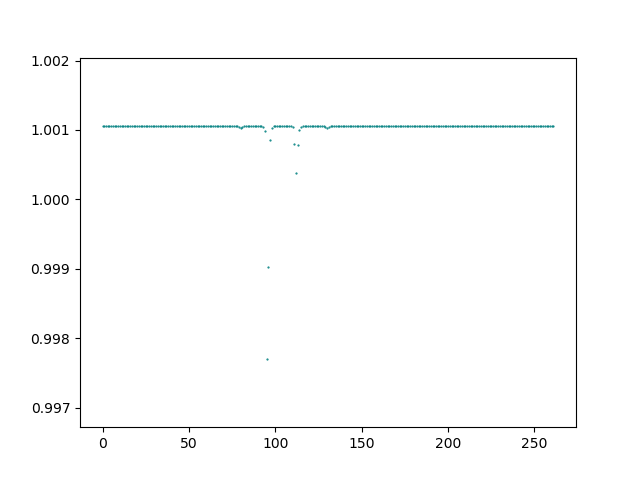
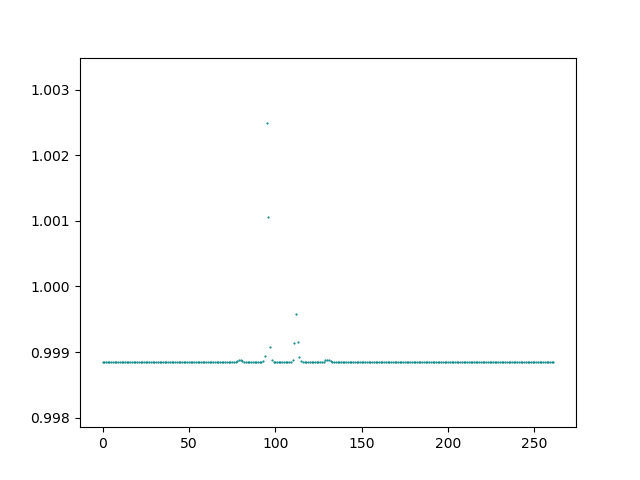
Waitlist (#16)
* weighted loss

* Weighted loss done

* Fixed weight loss

diff --git a/recolor/cic_paper_network.py b/recolor/cic_paper_network.py
@@ -18,6 +18,8 @@ from keras.layers import Activation, Conv2D, BatchNormalization,\
 from keras.activations import relu, softmax
 from keras import callbacks
 from keras import optimizers
+import tensorflow as tf # Can comment out when not in test mode
+
 
 from data_generator import DataGenerator
 
@@ -26,14 +28,9 @@ import constants as c
 ################################################################################
 # Custom loss functions
 
-# with open('../probabilities/waitlist.pickle', 'rb') as fp:
-#     weights = pickle.load(fp)
-#     weights = K.variable(weights)
-
-
-# def get_weights(bin, weights=weights):
-#     print('BIN', bin)
-#     return weights[bin]
+with open('../probabilities/waitlist.pickle', 'rb') as fp:
+    weights = pickle.load(fp)
+weights = np.array(weights)
 
 
 def multinomial_loss(y_true, y_pred):
@@ -44,15 +41,12 @@ def multinomial_loss(y_true, y_pred):
     :return: loss
     """
 
-    test1 = K.categorical_crossentropy(y_true, y_pred, axis=3)
+    loss = K.categorical_crossentropy(y_true, y_pred, axis=3) # Cross entropy
+    loss = K.sum(loss, axis=1) # Sum over all width vectors
+    loss = K.sum(loss, axis=1) # Sum over all height vectors
+    loss = K.sum(loss) # Sum over all images in the batch
 
-    test2 = K.sum(test1, axis=1)
-
-    test3 = K.sum(test2, axis=1)
-
-    test5 = K.sum(test3)
-
-    return test5
+    return loss
 
 
 def weighted_multinomial_loss(y_true, y_pred):
@@ -63,26 +57,19 @@ def weighted_multinomial_loss(y_true, y_pred):
     :return: loss
     """
 
-    print('Original shape', K.shape(y_true))
-    test0 = K.max(y_true, axis=3)
-    test0 = K.one_hot(test0, 262)
-    print('Shape', K.shape(test0))
-    test0 = K.cast(test0, K.floatx())
-    # test0 = k.map_fn(get_weights, (test0))
+    v = K.argmax(y_true, axis=3)
+    v = K.one_hot(v, 262)
+    v = v * weights
+    v = K.sum(v, axis=3)
 
-    test1 = K.categorical_crossentropy(y_true, y_pred, axis=3)
+    loss = K.categorical_crossentropy(y_true, y_pred, axis=3)  # Cross entropy
+    loss = K.dot(v, loss)
+    loss = K.sum(loss, axis=1)  # Sum over all width vectors
+    loss = K.sum(loss, axis=1)  # Sum over all height vectors
+    loss = K.sum(loss)  # Sum over all images in the batch
 
-    test2 = K.dot(test0, test1)
+    return loss
 
-    test3 = K.sum(test2, axis=1)
-
-    test4 = K.sum(test3, axis=1)
-
-    test5 = - test4
-
-    test6 = K.sum(test5)
-
-    return test6
 
 
 ################################################################################
@@ -206,6 +193,7 @@ def init_model(loss_function=multinomial_loss, batch_size=None):
 
     return model
 
+
 ################################################################################
 # Experimenting with running the model
 
@@ -236,7 +224,7 @@ def train_model_small_dataset_multinomial_loss():
     training_generator = DataGenerator(train_partition, **params)
     validation_generator = DataGenerator(validation_partition, **params)
 
-    model: Sequential = init_model(loss_function=multinomial_loss,
+    model: Sequential = init_model(loss_function=weighted_multinomial_loss,
                                    batch_size=batch_size)
     # model.summary()
 
@@ -256,8 +244,28 @@ def train_model_small_dataset_multinomial_loss():
 
     # take a sample and try to predict
     import image_logic
-
+    # Image 1
     sample_rgb = image_logic.read_image(train_partition[18])
+    sample_lab = image_logic.convert_rgb_to_lab(sample_rgb)
+
+    sample_grey = sample_lab[:, :, 0:1]
+    sample_grey = sample_grey.reshape(1, *sample_grey.shape)
+
+    output = model.predict(sample_grey)
+
+    ab = image_logic.probability_dist_to_ab(output)
+
+    lab = np.zeros(sample_lab.shape)
+    lab[:, :, 0:1] = sample_grey
+    lab[:, :, 1:] = ab
+
+    rgb = image_logic.convert_lab_to_rgb(lab)
+
+    image_logic.plot_img_converted(sample_rgb, lambda x: rgb)
+
+    ## Image 2
+
+    sample_rgb = image_logic.read_image(train_partition[30])
     sample_lab = image_logic.convert_rgb_to_lab(sample_rgb)
 
     sample_grey = sample_lab[:, :, 0:1]
@@ -281,6 +289,52 @@ def train_model_small_dataset_multinomial_loss():
 def main():
     train_model_small_dataset_multinomial_loss()
 
+def test():
+    # v = K.argmax(y_true, axis=3)
+    # v = K.one_hot(v, 262)
+    #
+    # weights = K.variable(weight_list)
+    # test = weights * v
+    # print('Test', test.shape)
+    # weights = K.expand_dims(weights, axis=0)
+    # weights = K.repeat_elements(weights, rep=64, axis=0)
+    # print('update')
+    #
+    # print('update')
+    # print(weights.shape)
+    # v = K.dot(v, weights)
+
+    ############################""
+    a = np.array([[[5, 2, 6],
+                    [7, 7, 3],
+                    [0, 0, 0],
+                    [6, 6, 5]],
+
+                   [[2, 2, 3],
+                    [1, 3, 3],
+                    [8, 1, 9],
+                    [0, 5, 7]]])
+    weights = np.array([2, 0, 1])
+    a = K.constant(a)
+    b = K.argmax(a, axis=2)
+    c = K.one_hot(b, 3)
+    d = c * weights
+    e = K.sum(d, axis=2)
+    sess = tf.Session()
+    print(sess.run(a))
+    print('*_' * 10)
+    print(sess.run(b))
+    print('*_' * 10)
+    print(sess.run(c))
+    print('*_' * 10)
+    print(sess.run(d))
+    print('*_' * 10)
+    print(sess.run(e))
+
+
+
+
 
 if __name__ == '__main__':
     main()
+    # test()

diff --git a/recolor/ProbabilityColours.py b/recolor/ProbabilityColours.py
@@ -240,13 +240,20 @@ def compute_weights():
     with open('../probabilities/weights.pickle', 'wb') as fp:
         pickle.dump(weights, fp)
 
+    waitlist = []
+    for key in range(len(bin_probs)):
+        waitlist.append(weights[key])
+
+    with open('../probabilities/waitlist.pickle', 'wb') as fp:
+        pickle.dump(waitlist, fp)
+
 
 def probs_to_weight(weight, Q, sigma=5, lamda=0.5):
-    gauss = norm(scale=np.sqrt(5))
+    # smoothed = weight
+    gauss = norm(scale=np.sqrt(sigma))
     smoothed = gauss.pdf(weight)
-    smoothed = (1. / sigma) * smoothed
     smoothed = (1 - lamda) * smoothed + (lamda / Q)
-    # new_weight = 1. / smoothed
+    smoothed = 1. / smoothed
 
     return smoothed
 

diff --git a/recolor/data_generator.py b/recolor/data_generator.py
@@ -214,12 +214,19 @@ def generate_data_paths_and_pickle():
 
     print("created test id's")
 
+# def get_available_classes():
+#     with open('../data/tiny-imagenet-200'):
+#         json.load()
+
+
+
 ################################################################################
 # Create pickled files when this file is run directly
 
 
 if __name__ == '__main__':
     generate_data_paths_and_pickle()
+    # get_available_classes()
 
 
 
